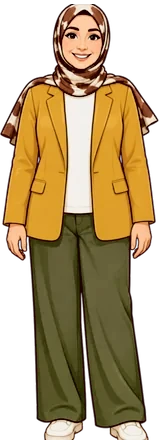
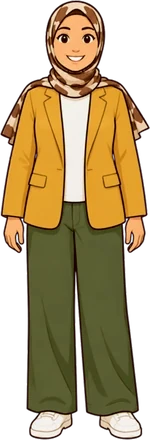
Müşteri 12 öbürlerinin tarzında yeniden çizildi (Kemal: 12 aykırı, ötekilere benzesin)
Claude-Session: https://claude.ai/code/session_01CqmBomUoj7kxT4HXbmEom1

diff --git a/docs/lisanslar.md b/docs/lisanslar.md
@@ -17,7 +17,7 @@ yalnız yazılı tarif kullanıldı.
 | `public/gorseller/urunler/gazoz.webp` | Gazoz şişesi. 6 Kasım 2026'da Birlik Zeytin etiketinden (KKM, Kemal'in markası) renk ve şekil esinli, yazısız etiketle yeniden çizildi; "DK Lite çalışma" tasarımının 20. sayfası. İlk çizim: https://www.canva.com/M/MAHZYpAngJY | https://www.canva.com/M/MAHaJJ059oU (saydam: MAHaJJwDGiQ) |
 | `public/gorseller/musteriler/` | 10 müşteri, tam boy (baştan ayağa; 30 Ekim, belden yukarı çizimler örnek verilerek yeniden çizildi) | https://www.canva.com/M/MAHZZvKWZio (1–5), https://www.canva.com/M/MAHZZnt6WHU (6–10) |
 | `public/gorseller/musteriler/musteri-11.webp` … `musteri-20.webp` | 10 yeni müşteri (5 Kasım 2026 gecesi; farklı kökenler, ten renkleri, saçlar, yaşlar). Canva'nın resim üretme aracıyla yazıyla tarif edilerek çizildi, arka planı Canva'da silindi; "DK Lite çalışma (7. paket görselleri)" tasarımının 19. sayfası ("Yeni müşteriler"), Kemal'in izniyle | https://www.canva.com/M/MAHaFkfZWuE (11–15), https://www.canva.com/M/MAHaFuiDZGA (16–20); saydam hâlleri MAHaFg-nUxk, MAHaFoQyQAo |
-| `public/gorseller/musteriler/musteri-12.webp` (6 Kasım'da yeniden), `musteri-21.webp` | 12: fularlı orta yaşlı kadın (eski uzun elbiseli çizimin yerine; Kemal: "ferace sevmiyorum"); 21: yazmalı nene. Canva, yazıyla tarif edilerek; arka planı Canva'da silindi; "DK Lite çalışma" tasarımının 20. sayfası | https://www.canva.com/M/MAHaJXYWxlg (12, son hâli: fular atkı gibi omuzlarda, boyun kapalı; saydam MAHaJT1RjhU; 21. sayfa; ilk hâli MAHaJBK4npc), https://www.canva.com/M/MAHaJEeUGBY (21; saydam MAHaJM-2C6g) |
+| `public/gorseller/musteriler/musteri-12.webp` (6 Kasım'da yeniden), `musteri-21.webp` | 12: fularlı orta yaşlı kadın (eski uzun elbiseli çizimin yerine; Kemal: "ferace sevmiyorum"); 21: yazmalı nene. Canva, yazıyla tarif edilerek; arka planı Canva'da silindi; "DK Lite çalışma" tasarımının 20. sayfası | https://www.canva.com/M/MAHaJXYWxlg (12, son hâli 6 Kasım akşamı: Kemal "12 aykırı, ötekilere benzesin"; 11, 13 ve 18 örnek verilerek öbürlerinin tarzında yeniden çizildi, arka planı Canva'da silindi, 22. sayfa, saydam MAHaKGOSjdg; önceki hâli MAHaJT1RjhU, 21. sayfa; ilk hâli MAHaJBK4npc), https://www.canva.com/M/MAHaJEeUGBY (21; saydam MAHaJM-2C6g) |
 | `public/gorseller/tezgah/dondurmaci.webp` | Tezgâhtaki dondurmacı (sarı tişört, mor önlük, mor kasket) | https://www.canva.com/M/MAHZYsbgjPQ |
 | `public/gorseller/kulah.webp` | Bantta dondurma topunun altındaki külah | https://www.canva.com/M/MAHZYtoyWcc |
 | `public/gorseller/bar/` | Bar rafındaki kafe eşyaları: kahve makinesi, bardaklar, şeker kavanozu, külah yığını, iki şurup şişesi, saksı, kâse | https://www.canva.com/M/MAHZYp3Zon8 |
